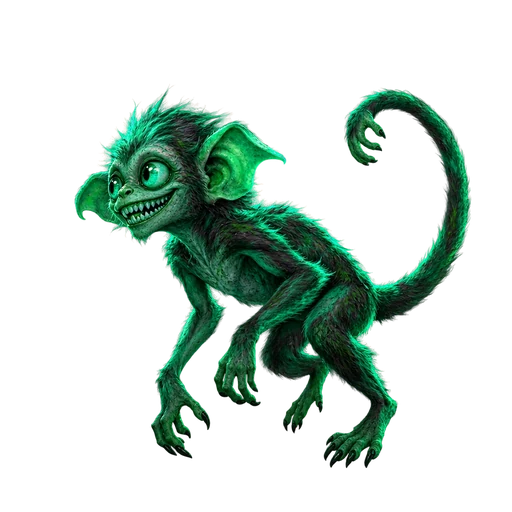
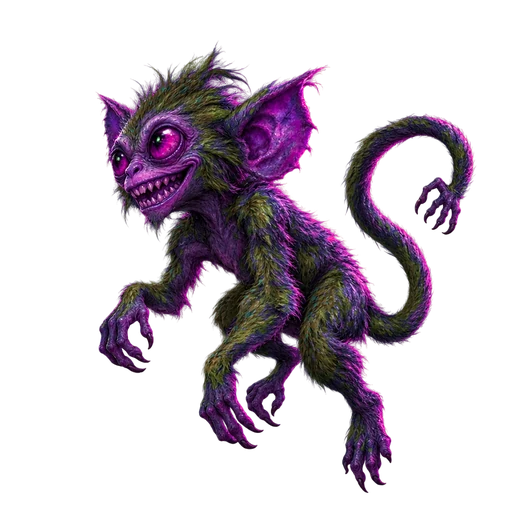
artreview: the art12 review - DFMC-301 Grinlet redone (violet, to match its line), DFMC-301..312 approved, the twelve tiles re-baked the house way (lane artreview, bug run 2026-11-02)
Rulings card T63 item 3, D: "you can do most of this yourself" - the review he had asked for ("approve them on
creature.html or tell me which to redo") done by the lane. Each of the twelve 2026-11-02 rolls judged against
its line's stage chain and the approved neighbours (Golgoth, Fata, Emberclaw, Zaratan, Slagworm, Sangleech):
framing, transparent background with 0 edge alpha, silhouette growth S1 -> S3, no text / watermark, the mutant
remap.
- REDONE DFMC-301 Grinlet: the first roll was a tawny-orange monkey while Gibberling (302) and Jackanape (303)
  are dusk-violet; its Image_Prompt named no fur colour, so the model picked a monkey's default. The prompt now
  says "matted dusk-violet fur" (the only prompt edit); one more /images/generations call (0 retries), master
  via fix_alpha (edge alpha 0, subject 74x88% of the frame), med / tile / mutant / opt-mutant / tile-mutant /
  colour + silhouette thumbs rebuilt by dfmc-client tools/make_creature_art.py.
- KEPT DFMC-302..312. Noted, not redone: Tyrannos (309) spans 98% of the frame width (approved art measured
  77-96%); Jackanape (303) shows two amber eyes, the prompt asks four; Rotdrip (310) has a soft rim glow that
  reads as the translucent jelly lit through (cf. Mirage).
- tiles: make_creature_art.derive() scaled tile 192 from the 1024 master; the house tile is bake_tile_art.py's
  med 512 -> 192. bake_tile_art.py --force over the committed tree rewrote exactly the 24 art12 files
[…]

diff --git a/creature.html b/creature.html
@@ -147,6 +147,7 @@
   <section>
     <h3>Changelog</h3>
     <div class="section-body">
+      <p style="font-size:12px;margin:0 0 6px;"><strong>2026-11-02</strong> &mdash; <strong>The art12 review: DFMC-301 redone, DFMC-301&ndash;312 approved (rulings card T63 item 3, D: &ldquo;you can do most of this yourself&rdquo;; lane artreview).</strong> ON DEV &mdash; D delegated the review he had asked for (&ldquo;approve them on creature.html or tell me which to redo&rdquo;). Each of the twelve was judged against its line&rsquo;s stage chain and the approved neighbours (Golgoth, Fata, Emberclaw, Zaratan, Slagworm, Sangleech): framing, transparent background and 0 edge alpha, silhouette growth S1 &rarr; S3, no text or watermark, the mutant remap. <strong>Redone: DFMC-301 Grinlet</strong> &mdash; the first roll came back in tawny orange fur while Gibberling and Jackanape are dusk-violet; its Image_Prompt named no fur colour, so the model chose a monkey&rsquo;s default. The prompt now says &ldquo;matted dusk-violet fur&rdquo; (the one prompt edit; the other eleven are untouched) and one more <code>/images/generations</code> call gave a violet infant that faces left with the second-hand tail; master, med, tile, mutant (opt, tile) and both thumbs rebuilt by <code>tools/make_creature_art.py</code>. <strong>Kept</strong>: DFMC-302&ndash;312. Noted, not redone: Tyrannos (309) spans 98% of the frame width (the approved range measured 77&ndash;96%), Jackanape (303) shows two amber eyes where the prompt asks four, Rotdrip (310) carries a soft rim glow (it reads as the translucent jelly lit through, cf. Mirage). The twelve tiles (and tile/mutants) are the <code>bake_tile_art.py</code> bake (med 512 &rarr; 192) rather than the generator&rsquo;s master &rarr; 192 downscale, so they match the 300. creatures.csv: Art_Status review &rarr; approved and Revision_Reason cleared (it still said PLACEHOLDER) for DFMC-301&ndash;312. The DATA_PIN advance is the release&rsquo;s; the changed files are DFMC-301&rsquo;s eight plus the 24 re-baked tiles.</p>
       <p style="font-size:12px;margin:0 0 6px;"><strong>2026-11-02</strong> &mdash; <strong>The four C7 lines get their art (art12; rulings card T63 item 3, D: &ldquo;you can do most of this yourself&rdquo;).</strong> SHIPPED IN 0.92<em>review</em> &mdash; approval is D&rsquo;s. DFMC-301&ndash;312 (Grinlet &rarr; Gibberling &rarr; Jackanape, Knuckler &rarr; Silverback &rarr; Goliath, Tyrantling &rarr; Tyrantjaw &rarr; Tyrannos, Rotdrip &rarr; Gristleglob &rarr; Charnelmass) replace the code-drawn PLACEHOLDER of 2026-10-23 with the image pipeline&rsquo;s own output: <code>gpt-image-2.5-flare-2026-09-08</code>, one <code>/images/generations</code> call per row, 1024&times;1024, quality high, prompt = the house STYLE prefix + the row&rsquo;s Image_Prompt + the cutout suffix (dfmc-client <code>tools/make_creature_art.py</code>; the row prompts are unchanged). First use of ruling T23 (2026-10-18, &ldquo;Model cuts it out; cutout service as backup&rdquo;, codex X7): the art is generated <code>background:transparent</code> and ships the API&rsquo;s own alpha, no remove.bg pass. Measured on the twelve rolls, that alpha needed one matte-only correction, RGB untouched: the body came back at a flat alpha 252 (no pixel at 255, a 1% see-through) under a haze of alpha 2&ndash;4 over 3&ndash;20% of the frame, so the master is alpha &times; 255/252 with alpha &le; 8 cut (the approved art is 255-solid with 1&ndash;2% partial alpha at the edge). Same eight files per creature as every other row (master PNG, med 512, tile 192, mutant 1024 by <code>tools/make_mutants.py</code>, opt/mutants 512, tile/mutants 192, colour and silhouette thumbs 128), same framing rule (a plain LANCZOS downscale). 12 API calls, 0 retries; the index&rsquo;s Art pipeline paragraph records T23. Gates: dfmc-client <code>tools/check_pinned_art.py</code> OK; <code>bash tools/gates.sh</code> PASS.</p>
       <p style="font-size:12px;margin:0 0 6px;"><strong>2026-11-02</strong> &mdash; <strong>The transfer to Herumon Dungeon is parked for a future expansion (T48, lane xferhold).</strong> 0.92 ships with it parked. D (rulings answer, 2026-11-02): &ldquo;hold off on the creatures for a future expansion&rdquo;. The two entries below describe code that stays but is unreachable: the server doors answer 404 <code>transfer_parked</code> without the Worker var <code>TRANSFER_OPEN</code> (absent on both workers), the Steam shell has no bridge without <code>DFMC_TRANSFER_OPEN=1</code>, so the sheet shows no SEND TO HERUMON DUNGEON and no traveler line; the <code>DIMENSIONAL_TRAVELER</code> badge row is gone from <code>badges.csv</code>. D&rsquo;s rules for the expansion, same answer, verbatim: &ldquo;hold off on the creatures for a future expansion. Creatures transfered to a different game retain mutant status, grade. But they start at lvl 1 on the new game. They have a World traveler mark on their sheet to show which other games it has visited&rdquo; &mdash; against what is built: level 1 on arrival (today the Dungeon maps the Tower level 1:1), mutant and grade retained (mutant is <code>mon.tower.mutant</code> metadata only today), a World traveler mark on the sheet listing the games visited (replaces the &ldquo;Dimensional traveler levels&rdquo; line). The badge at 50 is not in his new words &mdash; an open point for the expansion. Spec: dfmc-client <code>docs/creature-transfer-2026-11.md</code> &sect; 0. Gates: <code>tools/probe_t48_transfer_srv.py</code> 9/12 &rarr; 12/12 (the three parked checks), <code>tools/probe_t48_transfer_ui.py</code> 12/12 under the open switch (W1, no bridge: no SEND, no line, no call, is what 0.92 shows), the Dungeon&rsquo;s <code>tools/tests/transfer_import.mjs</code> 37/39 &rarr; 39/39.</p>
       <p style="font-size:12px;margin:0 0 6px;"><strong>2026-11-02</strong> &mdash; <strong>A creature can travel to Herumon Dungeon (T48).</strong> BUILT AND PARKED for a future expansion (D 2026-11-02; 0.92 ships it switched off); server side only; the sheet and the shell follow in later lanes. D, Tower rulings card T48 (2026-11-02): "Copy, free, once per creature; a Dimensional Traveler badge at level 50 in the other game." The Tower keeps the creature and signs a copy for the Dungeon (<code>POST /api/transfer/dungeon</code>, once per uid; the ledger row is marked <code>sent</code>, never spent). The creature details window will carry a <strong>Dimensional traveler levels</strong> line - <em>Tower 76, Farm 12</em> - the Tower level beside the level the Dungeon reads back through the shared folder, and the <code>DIMENSIONAL_TRAVELER</code> badge (badges.csv) is awarded when a sent creature reaches level 50 there. Spec: dfmc-client <code>docs/creature-transfer-2026-11.md</code>.</p>
